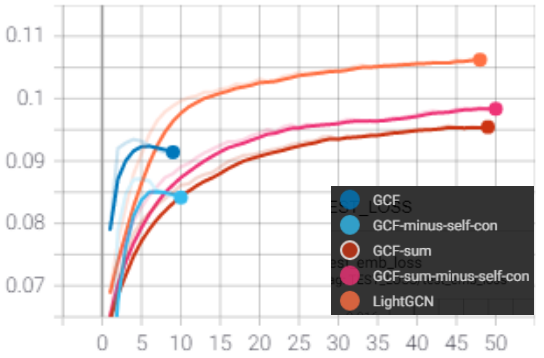
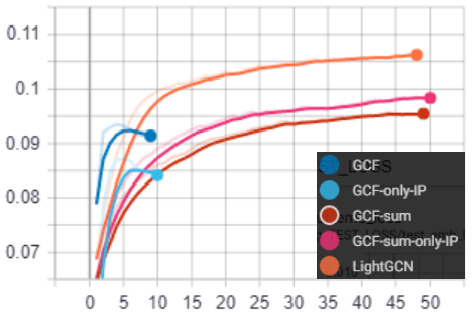
initial ablation study experiment

diff --git a/article/Experiment/GCF-ablation-study.tex b/article/Experiment/GCF-ablation-study.tex
@@ -1,4 +1,5 @@
 \subsection{Ablation study for GCF}
+\textcolor{red}{For GCF we have used the wrong adjacency matrix, that do not contain self connections. We are unsure what the difference will be in the result, but the results might change.}
 Meng Liu et. al does not present an ablation study for BiTGCF and GCF, which LightGCN showed is important with their regards to NGCF \cite{lightgcn,BiTGCF}.
 In this section we conduct an ablation study on GCF to get an understanding on the effect of the different parts of the embedding propagation and layer combination.
 \autoref{fig:GCF-NDCG-ablation-study} and \autoref{fig:GCF-recall-ablation-study} contains the GCF ablation study, where all GCF modifications still have the inner product between users and items, except for LightGCN.
@@ -6,13 +7,11 @@ The methods are as described here:\\
 \textcolor{red}{(We might also be required to test this with dropout to prevent overfitting on the methods that utilizes concatenation as layer combination, and see what effect this has on the results.)}
 \begin{itemize}
     \item \textbf{GCF}: The original GCF method as described in \autoref{subsubsec:GCF-embed-propagation}.
-    \item \textbf{GCF-minus-self-con}: GCF where self connection has been removed.
     \item \textbf{GCF-sum}: GCF where the layer combination has been changed to weighted summation instead of concatenation.
-    \item \textbf{GCF-sum-minus-self-con}: GCF with removed self connection and weighted summation as layer combination.
+    \item \textbf{GCF-only-IP}:  GCF where $e_i^{(k)}$ has been removed in \autoref{eq:GCF-embedding}, so that GCF's graph convolutions only considers the inner product of users and items.
+    \item \textbf{GCF-sum-only-IP}: Implemented as GCF-only-IP except that the layer combination method used is weighted summation.
     \item \textbf{GCF-minus-IP}: GCF where inner product has been removed. \textcolor{red}{results missing}
-    \item \textbf{GCF-minus-IP-and-self-con}: GCF without inner product and self connections. \textcolor{red}{results missing}
     \item \textbf{LightGCN}: Original LightGCN as described in \autoref{subsubsec:LightGCN-embed-propagation}.
-    \item \textbf{LightGCN-self-con}: LightGCN with self connections.\textcolor{red}{results missing}
     \item \textbf{LightGCN-concat}: LightGCN with concatenation as layer combination. \textcolor{red}{results missing}
 \end{itemize}
 
@@ -27,7 +26,7 @@ The methods are as described here:\\
     \caption{Recall@50 on the Yelp2020 dataset.}
     \label{fig:GCF-recall-ablation-study}
 \end{figure}
-From \autoref{fig:GCF-NDCG-ablation-study} and \autoref{fig:GCF-recall-ablation-study} it can be seen that the methods that does not utilize concatenation as layer combination performs worse than the methods that utilize summation.
+From \autoref{fig:GCF-NDCG-ablation-study} and \autoref{fig:GCF-recall-ablation-study} it can be seen that the methods that do not utilize concatenation as layer combination performs worse than the methods that utilize summation.
 For these experiments the dropout ratio is 0, so it could be because the concatenation methods hits overfitting.
-Additionally we can see that self connections are beneficial, when using concatenation as layer combination, but decreases performance when using weighted summation as layer combination.
-This is probably because that with weighted summation, the self connection are implicit added with the initial $e_u^{(0)}$ and $e_i^{(0)}$ embeddings, as these represents the adjacency matrices.
+Additionally we can see that convolutions of items and user are beneficial, when using concatenation as layer combination, but decreases performance when using weighted summation as layer combination, while combining it with inner product.
+This is likely because weighted summation is more sensitive to changes in the embedding, and using both neighboring convolutions and inner product can create contradictions.

diff --git a/article/Method/embeddings.tex b/article/Method/embeddings.tex
@@ -60,6 +60,7 @@ $\alpha_k$ is set to $1 /(K + 1)$ for simplicity.
 The embedding propagation in GCF is defined as \cite{BiTGCF},
 \begin{equation}
     \mathbf{e}_{u}^{(k+1)} = \mathbf{e}_{u}^{(k)} + \sum^{}_{i \in \mathcal{N}_u}  \frac{1}{\sqrt{|\mathcal{N}_u||\mathcal{N}_i|}}\left( \mathbf{e}_i^{(k)} + \mathbf{e}_i^{(k)} \odot \mathbf{e}_u^{(k)} \right)
+    \label{eq:GCF-embedding}
 \end{equation}
 As can be seen GCF adds the self connections and the inner product between the users and items compared to LightGCN.
 The purpose of the inner product is that the more the user and item nodes have in common the greater the value will be passed to the center node \cite{BiTGCF}.

diff --git a/preamble.tex b/preamble.tex
@@ -21,6 +21,7 @@
 \usepackage{lettrine} % The lettrine is the first enlarged letter at the beginning of the text
 \usepackage{enumitem} % Customized lists
 \setlist[itemize]{noitemsep} % Make itemize lists more compact
+\usepackage{xcolor}
 
 \usepackage{abstract} % Allows abstract customization
 \renewcommand{\abstractnamefont}{\normalfont\bfseries} % Set the "Abstract" text to bold
